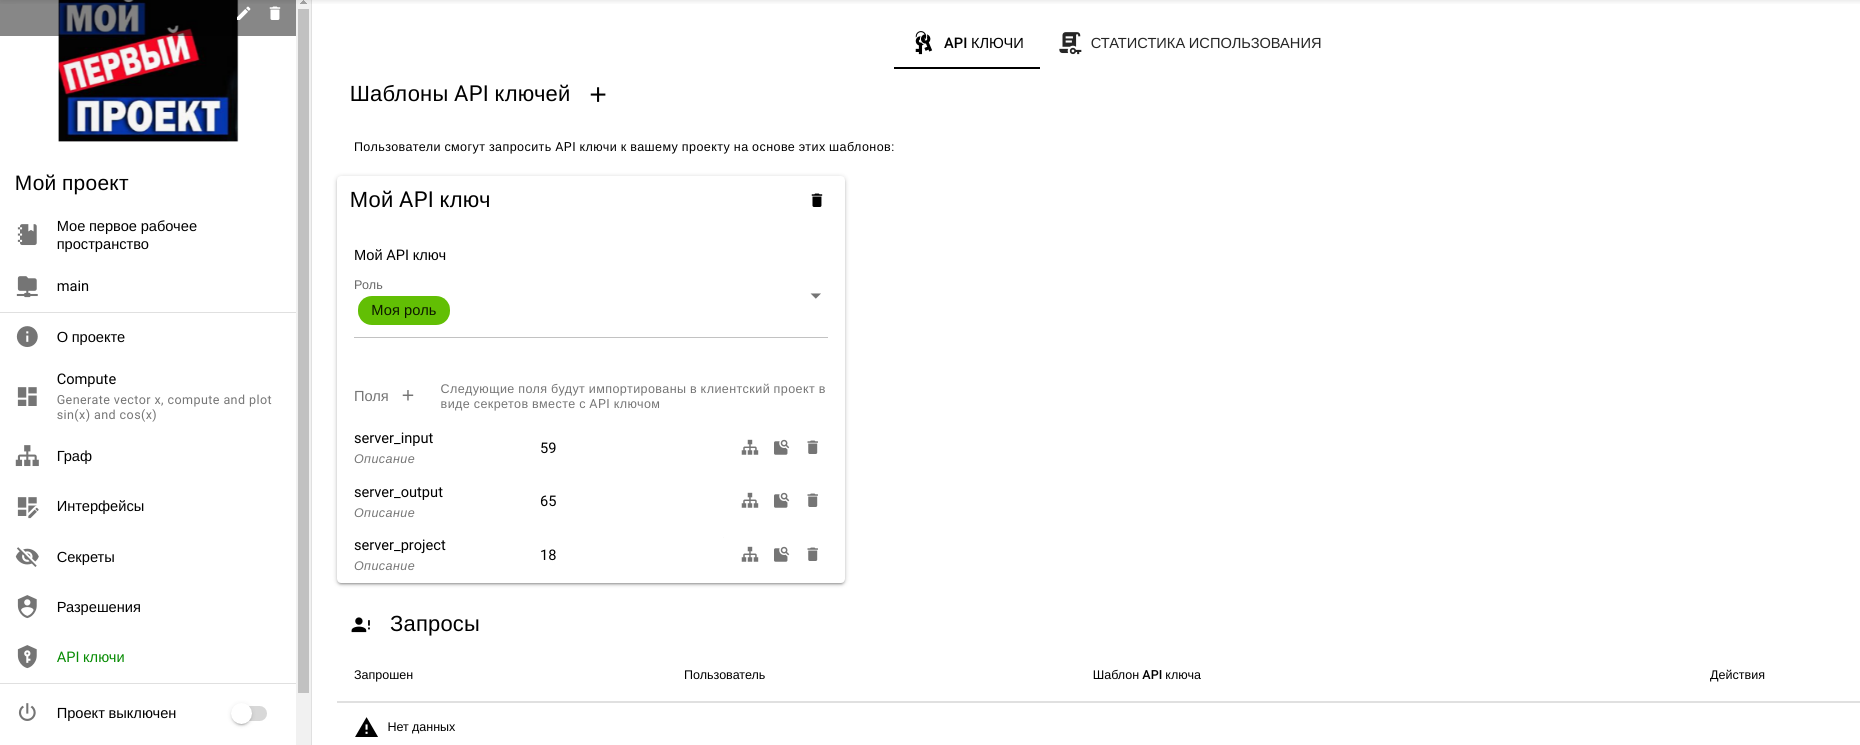
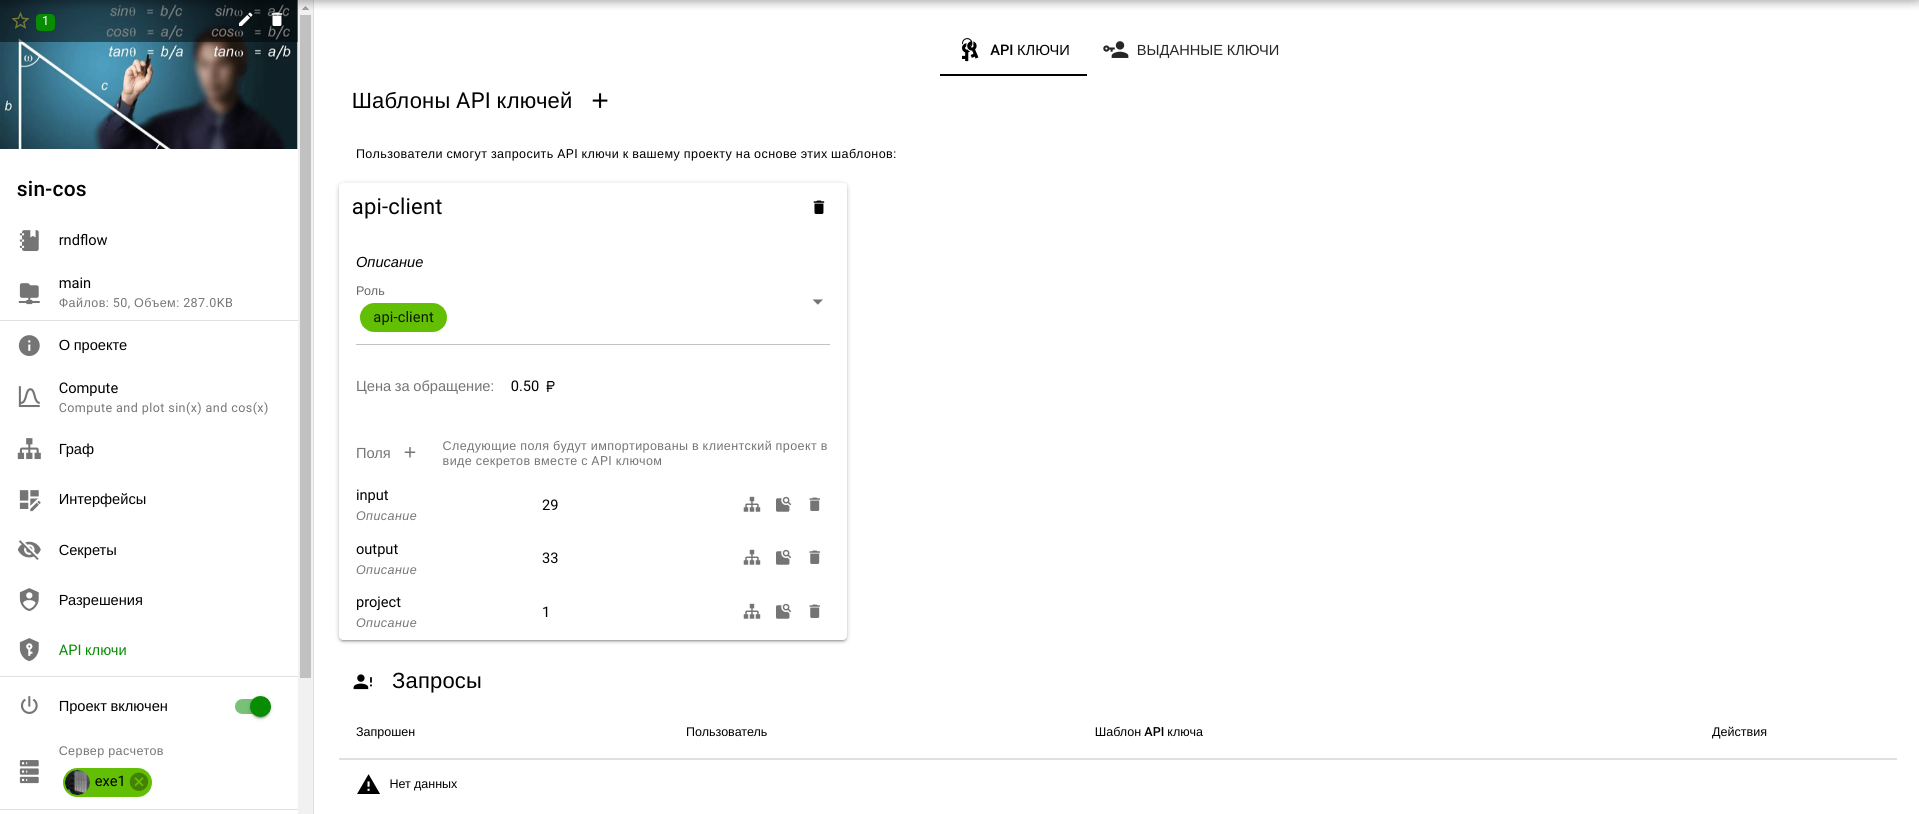
Update api keys info

diff --git a/src/desc/api_keys.md b/src/desc/api_keys.md
@@ -10,10 +10,11 @@
 
 Структура панели:
 
-- Панель управления
-  - <span class="iconify-inline" data-icon="mdi:plus"></span> кнопка добавления нового шаблона API ключа
-- Список [панелей плиток](#плитка-шаблона) шаблонов API ключей
-- <span class="iconify-inline" data-icon="mdi:account-alert"></span> Запросы на получение API ключа
+- <span class="iconify-inline" data-icon="mdi:key-chain"></span> Раздел "API КЛЮЧИ"
+  - Шаблоны API ключей - список [панелей плиток](#плитка-шаблона) шаблонов API ключей
+  - <span class="iconify-inline" data-icon="mdi:plus"></span> - кнопка добавления нового шаблона API ключа
+  - <span class="iconify-inline" data-icon="mdi:account-alert"></span> Запросы - список запросов на получение API ключей.
+- <span class="iconify-inline" data-icon="mdi:account-key"></span> Раздел ["ВЫДАННЫЕ КЛЮЧИ"](#выданные-ключи)
 
 ## Плитка шаблона
 
@@ -22,7 +23,7 @@
 1. Редактируемое название
 2. Редактируемое описание
 3. Редактируемое значение присвоенной роли
-4. <span class="iconify-inline" data-icon="mdi:delete"></span> Добавление информационного поля
+4. Поля <span class="iconify-inline" data-icon="mdi:plus"></span> - кнопка добавления информационного поля
    ::: tip <span class="iconify" data-icon="mdi:information" style="color: #42b983; font-size: 24px;"></span>
    Информационные поля импортируются в клиентский проект в виде [секретов](./secrets.md) вместе с API ключом и необходимы для предоставления пользователю ключа информации об его основных параметрах при его [использовании](/docs/instructions/api_keys.md#использование-ключа).
 
@@ -35,11 +36,11 @@
 5. Редактируемое название информационного поля
 6. Редактируемое описание информационного поля
 7. Редактируемое значение информационного поля
-8. <span class="iconify-inline" data-icon="mdi:sitemap"></span> Вставка идентификатора проекта в качестве значения поля
-9. <span class="iconify-inline" data-icon="mdi:feature-search"></span> Вставка идентификатора выбранного узла в качестве значения поля
-10. <span class="iconify-inline" data-icon="mdi:delete"></span> Удаление поля
-11. <span class="iconify-inline" data-icon="mdi:menu-down"></span> Выбор роли
-12. <span class="iconify-inline" data-icon="mdi:delete"></span> Удаление шаблона
+8. <span class="iconify-inline" data-icon="mdi:sitemap"></span> - кнопка вставки идентификатора проекта в качестве значения поля
+9. <span class="iconify-inline" data-icon="mdi:feature-search"></span> - кнопка вставки идентификатора выбранного узла в качестве значения поля
+10. <span class="iconify-inline" data-icon="mdi:delete"></span> - кнопка удаления поля
+11. <span class="iconify-inline" data-icon="mdi:menu-down"></span> - выпадающий список выбора роли
+12. <span class="iconify-inline" data-icon="mdi:delete"></span> - кнопка удаления шаблона
 
 ## Плитка ключа
 
@@ -59,10 +60,24 @@
 
   ![API requested](/images/common/api_panel_confirmed.png)
 
-## Статистика использования
+## Выданные ключи
 
-Статистика использования API ключа доступна в разделе <span class="iconify-inline" data-icon="mdi:script-text-key"></span> **СТАТИСТИКА ИСПОЛЬЗОВАНИЯ**.
+Список выданных API ключей и статистика их использования доступна в разделе <span class="iconify-inline" data-icon="mdi:account-key"></span> **ВЫДАННЫЕ КЛЮЧИ**.
 
-![API request letter](/images/common/api_billing.png)
+![API keys](/images/common/api_billing.png)
+
+Структура:
+
+- Панель инструментов
+  - Период <span class='iconify-inline' data-icon='mdi:calendar-range'></span> - отображаемый период
+  - <span class='iconify-inline' data-icon='mdi:refresh'></span> - кнопка обновления списка
+- Список выданных ключей
+  - API ключ - название ключа
+  - Пользователь - пользватель получивший ключ
+  - Получен - дата выдачи
+  - Запросы - количество запросов за выбранный период
+  - Сумма - суммарная стоимость запросов за выбранный период
+  - <span class='iconify-inline' data-icon='mdi:delete'></span> - кнопка удаления разрешения
+- Панель навигации
 
 [1]: /docs/instructions/api_keys.md#запрос-ключа
